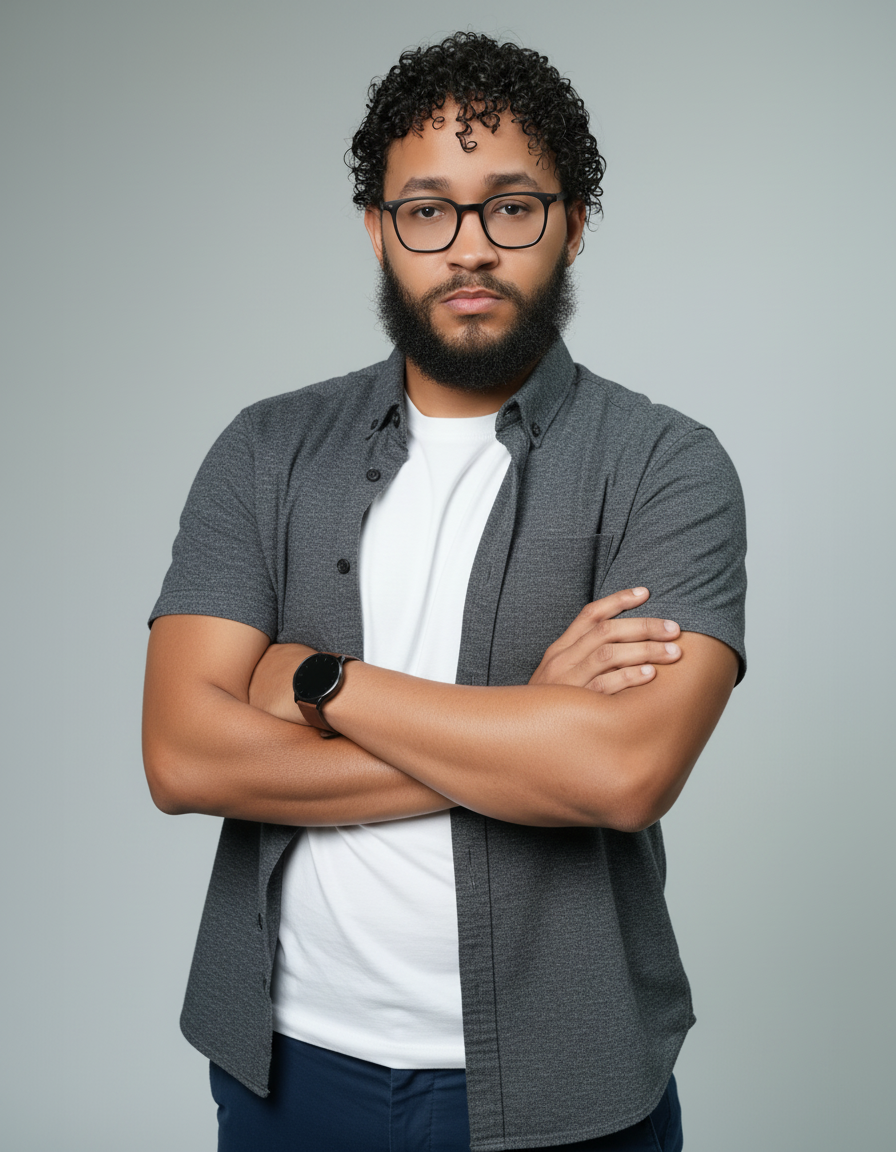
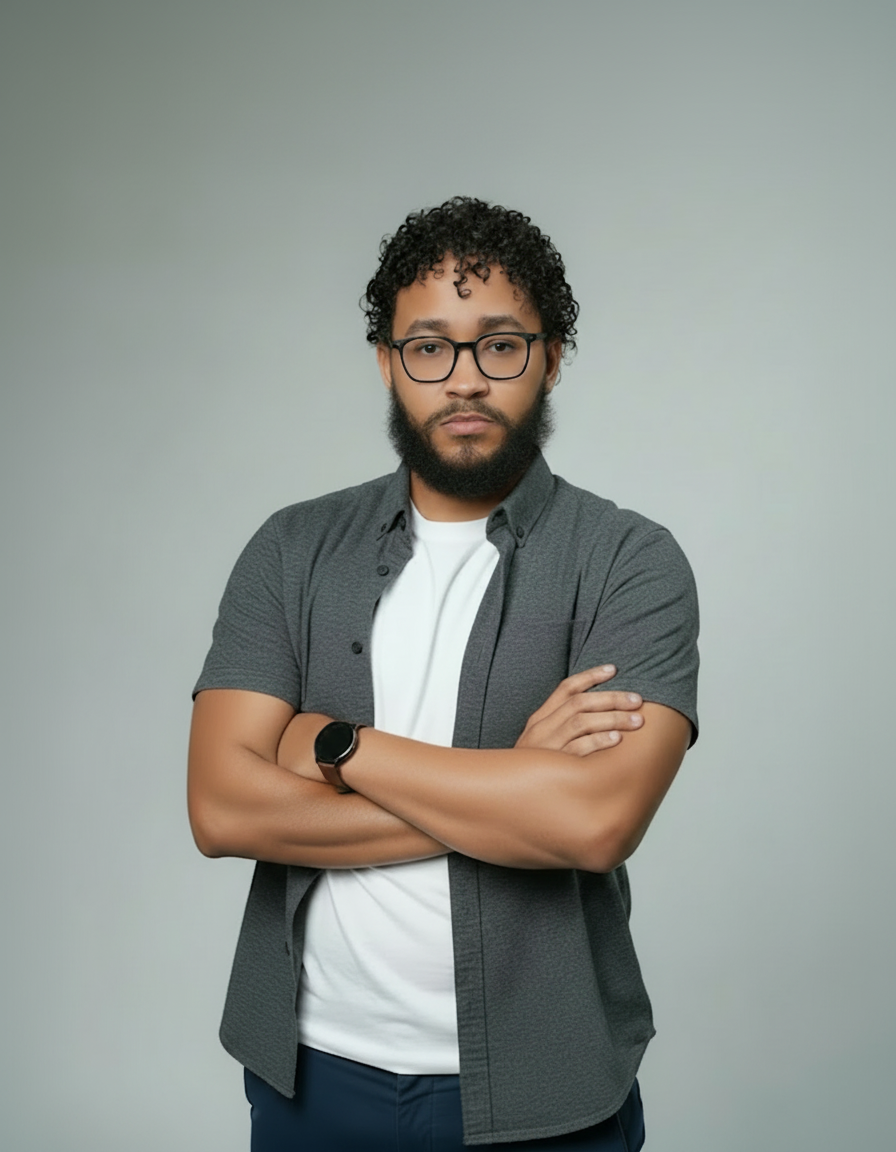
foto de perfil cambiada y ajustada para diferentes tamaños

diff --git a/src/components/sections/About.tsx b/src/components/sections/About.tsx
@@ -101,11 +101,11 @@ export const About = () => {
         </div>
 
         <div className="grid grid-cols-1 lg:grid-cols-2 gap-16 items-center mb-24">
-          <div className="about-content relative group mx-auto lg:mx-0 max-w-sm lg:max-w-none">
+          <div className="about-content relative group mx-auto lg:mx-0 w-full max-w-sm lg:max-w-none">
             <div className="absolute -inset-2 bg-gradient-to-r from-neon-cyan via-neon-purple to-neon-pink rounded-2xl opacity-20 group-hover:opacity-100 transition-opacity blur-xl"></div>
-            <div className="relative aspect-square rounded-2xl overflow-hidden border-2 border-neon-purple shadow-neon-purple shadow-inner">
+            <div className="relative w-full aspect-square rounded-2xl overflow-hidden border-2 border-neon-purple shadow-neon-purple shadow-inner">
               <Image
-                src="/pp.jpg"
+                src="/pp.png"
                 alt={t.name}
                 fill
                 priority
